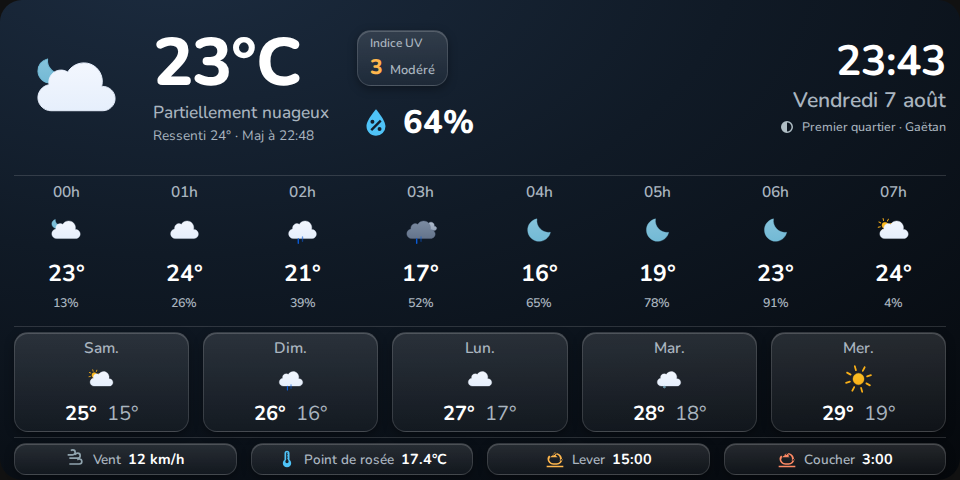
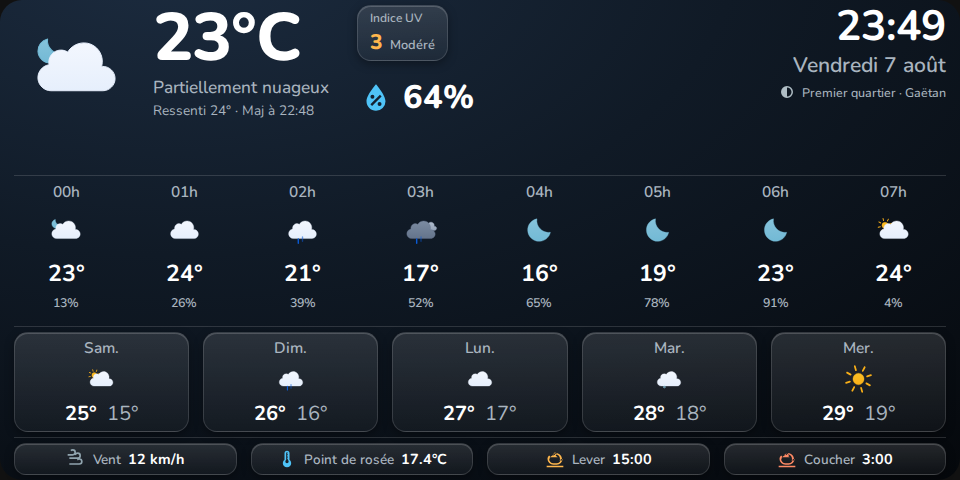
fix: remove empty band at top of card, align .current to flex-start
.current grandit via flex-grow pour occuper l'espace vertical laissé
par un contenu naturellement plus court que les 480px disponibles
(partagé avec .hourly). Avec align-items: center, cet espace en trop
se répartissait pour moitié AU-DESSUS de l'icône — un bandeau vide
visible en haut de la carte. .hourly n'avait pas ce problème (ses
items sont déjà ancrés en haut par défaut). Passé à align-items:
flex-start : tout s'ancre au padding du haut, l'espace en trop finit
en bas près de la bordure plutôt qu'au-dessus de rien.

diff --git a/src/echo-weather-card.js b/src/echo-weather-card.js
@@ -576,7 +576,13 @@ class EchoWeatherCard extends LitElement {
     /* --- Météo actuelle : ~1/3 supérieur --- */
     .current {
       display: flex;
-      align-items: center;
+      /* flex-start plutôt que center : .current grandit via flex-grow
+         pour occuper l'espace vertical disponible, et un centrage aurait
+         réparti cet espace en trop au-dessus ET en dessous de l'icône —
+         créant un bandeau vide visible en haut de la carte. Ancré en
+         haut, l'espace en trop finit en bas (près de la bordure), sans
+         rien au-dessus. */
+      align-items: flex-start;
       gap: var(--_gap);
       flex: 1 1 33%;
       padding-bottom: var(--_row-gap);

diff --git a/dist/echo-weather-card.js b/dist/echo-weather-card.js
@@ -1498,7 +1498,13 @@ I(K, "properties", {
     /* --- Météo actuelle : ~1/3 supérieur --- */
     .current {
       display: flex;
-      align-items: center;
+      /* flex-start plutôt que center : .current grandit via flex-grow
+         pour occuper l'espace vertical disponible, et un centrage aurait
+         réparti cet espace en trop au-dessus ET en dessous de l'icône —
+         créant un bandeau vide visible en haut de la carte. Ancré en
+         haut, l'espace en trop finit en bas (près de la bordure), sans
+         rien au-dessus. */
+      align-items: flex-start;
       gap: var(--_gap);
       flex: 1 1 33%;
       padding-bottom: var(--_row-gap);
